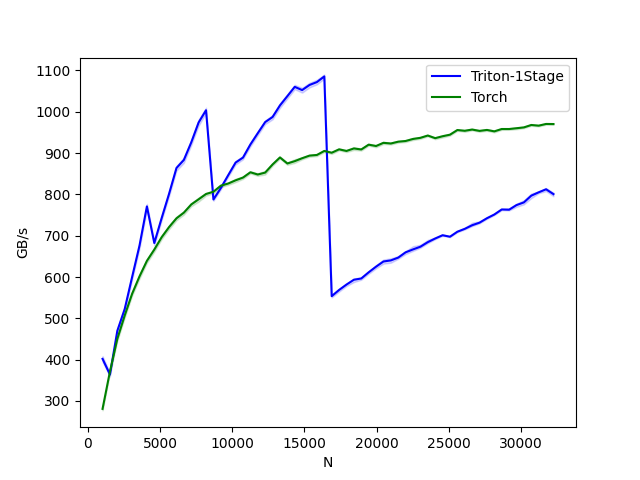
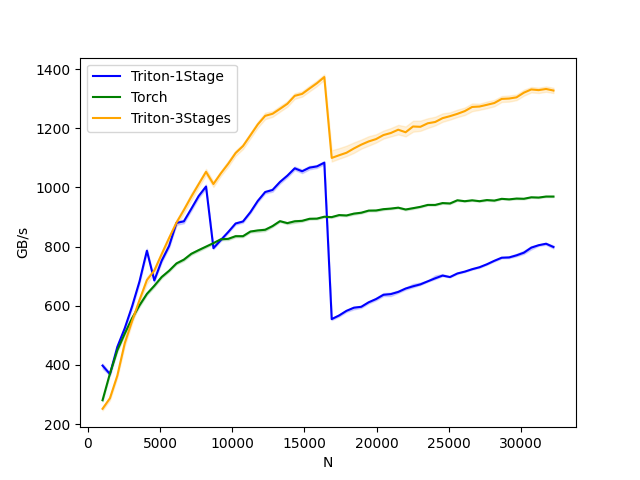
faster layernorm kernel (3 stages)

diff --git a/layer_norm_fw.py b/layer_norm_fw.py
@@ -83,6 +83,158 @@ def layer_norm_1_stage(x, normalized_shape, weight, bias, eps):
 
     return y
 
+############################### LayerNorm 3 Kernels ###############################
+
+@triton.jit
+def _layer_norm_stats_tiles(
+    X,
+    partial_sum,
+    partial_sum_sq,
+    stride,
+    N,
+    BLOCK_SIZE: tl.constexpr,
+):
+    row_id = tl.program_id(0)
+    tile_id = tl.program_id(1)
+    row_offset = row_id * stride
+    cols = tile_id * BLOCK_SIZE + tl.arange(0, BLOCK_SIZE)
+
+    x = tl.load(X + row_offset + cols, mask=cols < N, other=0.).to(tl.float32)
+    sum = tl.sum(x, axis=0)
+    sum_sq = tl.sum(x * x, axis=0)
+
+    idx = row_id * tl.num_programs(1) + tile_id
+    tl.store(partial_sum + idx, sum)
+    tl.store(partial_sum_sq + idx, sum_sq)
+
+@triton.jit
+def _layer_norm_stats_reduce(
+    partial_sum,
+    partial_sum_sq,
+    Mean,
+    Rstd,
+    N: tl.constexpr,
+    T: tl.constexpr,
+    eps: tl.constexpr,
+    BLOCK_SIZE_T: tl.constexpr,
+):
+    row_id = tl.program_id(0)
+    sum = 0.0
+    sum_sq = 0.0
+    for t in range(0, T, BLOCK_SIZE_T):
+        tile_id = t + tl.arange(0, BLOCK_SIZE_T)
+        mask = tile_id < T
+        idx = row_id * T + tile_id
+        p_sum = tl.load(partial_sum + idx, mask=mask, other=0.0)
+        p_sum_sq = tl.load(partial_sum_sq + idx, mask=mask, other=0.0)
+        sum += tl.sum(p_sum, axis=0)
+        sum_sq += tl.sum(p_sum_sq, axis=0)
+    mean = sum / N
+    var = (sum_sq - 2 * mean * sum + N * mean * mean) / N
+    rstd = 1 / tl.sqrt(var + eps)
+    tl.store(Mean + row_id, mean)
+    tl.store(Rstd + row_id, rstd)
+
+@triton.jit
+def _layer_norm_normalize_kernel(
+    X,
+    Y,
+    W,
+    B,
+    Mean,
+    Rstd,
+    stride,
+    N,
+    BLOCK_SIZE: tl.constexpr,
+):
+    row_id = tl.program_id(0)
+    tile_id = tl.program_id(1)
+    row_offset = row_id * stride
+    cols = tile_id * BLOCK_SIZE + tl.arange(0, BLOCK_SIZE)
+
+    mean = tl.load(Mean + row_id)
+    rstd = tl.load(Rstd + row_id)
+
+    w = tl.load(W + cols, mask=cols < N)
+    b = tl.load(B + cols, mask=cols < N)
+    x = tl.load(X + row_offset + cols, mask=cols < N, other=0.).to(tl.float32)
+
+    x_hat = (x - mean) * rstd
+    y = x_hat * w + b
+
+    tl.store(Y + row_offset + cols, y, mask=cols < N)
+
+
+def layer_norm_3stages(
+    X: torch.Tensor, W: torch.Tensor, B: torch.Tensor, eps: float = 1e-5,
+):
+    """
+    X: [M, stride>=N], contiguous in the last dim (or provide proper stride)
+    W,B: [N], fp32 weights and biases recommended
+    Returns: (Y, Mean, Rstd)
+    """
+    assert X.dim() == 2
+    M, stride = X.shape
+    N = W.numel()
+    assert B.numel() == N
+    assert stride >= N
+
+    device = X.device
+    dtype  = X.dtype
+
+    BLOCK_SIZE = 1024
+
+    MAX_FUSED_SIZE = 65536 // X.element_size()
+    BLOCK_SIZE = min(MAX_FUSED_SIZE, triton.next_power_of_2(N))
+    REDUCE_TILES_SIZE = BLOCK_SIZE // 2
+
+    TILE_SIZE = BLOCK_SIZE
+    T = (N + TILE_SIZE - 1) // TILE_SIZE
+
+    # heuristics for number of  warps
+    num_warps = min(max(BLOCK_SIZE // 256, 1), 8)
+
+    # buffers
+    partial_sum   = torch.empty((M * T,), device=device, dtype=torch.float32)
+    partial_sumsq = torch.empty_like(partial_sum)
+    Mean = torch.empty((M,), device=device, dtype=torch.float32)
+    Rstd = torch.empty_like(Mean)
+    Y    = torch.empty_like(X)  # compute in fp32; cast later if you want
+
+    # grid shapes
+    gridA = (M, T)                      # (row, tile)
+    gridB = (M,)                        # per-row reduction
+    gridC = (M, T)                      # (row, tile)
+
+    # KERNEL A
+    _layer_norm_stats_tiles[gridA](
+        X, partial_sum, partial_sumsq,
+        stride, N,
+        BLOCK_SIZE=TILE_SIZE,
+        num_warps=num_warps,  # good default for 256, tune on your GPU
+        num_stages=1,
+    )
+
+    # KERNEL B
+    _layer_norm_stats_reduce[gridB](
+        partial_sum, 
+        partial_sumsq,
+        Mean, Rstd,
+        N, T, eps,
+        BLOCK_SIZE_T=REDUCE_TILES_SIZE,   # reduce tiles per iteration
+        num_warps=4, num_stages=2,
+    )
+
+    # KERNEL C
+    _layer_norm_normalize_kernel[gridC](
+        X, Y, W, B, Mean, Rstd,
+        stride, N,
+        BLOCK_SIZE=TILE_SIZE,
+        num_warps=num_warps, num_stages=1,
+    )
+
+    return Y
+
 
 def test_layer_norm(M, N, dtype, eps=1e-5, device=DEVICE):
     # create data
@@ -96,15 +248,20 @@ def test_layer_norm(M, N, dtype, eps=1e-5, device=DEVICE):
     y_ref = torch.nn.functional.layer_norm(x, w_shape, weight, bias, eps).to(dtype)
     assert torch.allclose(y_tri_1_stage, y_ref, atol=1e-2, rtol=0)
 
+    y_tri_3_stage = layer_norm_3stages(x, weight, bias, eps)
+
+    assert torch.allclose(y_tri_3_stage, y_ref, atol=1e-2, rtol=0), f"{y_ref=}, {y_tri_3_stage=}"
+
+    print(f"LayerNorm forward ({M=}, {N=}) test passed!")
 
 @triton.testing.perf_report(
     triton.testing.Benchmark(
         x_names=['N'],
         x_vals=[512 * i for i in range(2, 64)],
         line_arg='provider',
-        line_vals=['triton-1stage', 'torch',],
-        line_names=['Triton-1Stage', 'Torch'],
-        styles=[('blue', '-'), ('green', '-')],
+        line_vals=['triton-1stage', 'torch', 'triton-3stages'],
+        line_names=['Triton-1Stage', 'Torch', 'Triton-3Stages'],
+        styles=[('blue', '-'), ('green', '-'), ('orange', '-')],
         ylabel='GB/s',
         plot_name='layer-norm-fwd',
         args={'M': 4096, 'dtype': torch.float16,},
@@ -126,6 +283,9 @@ def bench_layer_norm(M, N, dtype, provider, eps=1e-5, device=DEVICE):
         if provider == "torch":
             return torch.nn.functional.layer_norm(x, w_shape, weight, bias, eps)  # noqa: F811, E704
 
+        if provider == "triton-3stages":
+            return layer_norm_3stages(x, weight, bias, eps)
+        
     # forward pass
     gbps = lambda ms: 2 * x.numel() * x.element_size() * 1e-9 / (ms * 1e-3)
     ms, min_ms, max_ms = triton.testing.do_bench(y_fwd, quantiles=quantiles, rep=500)
